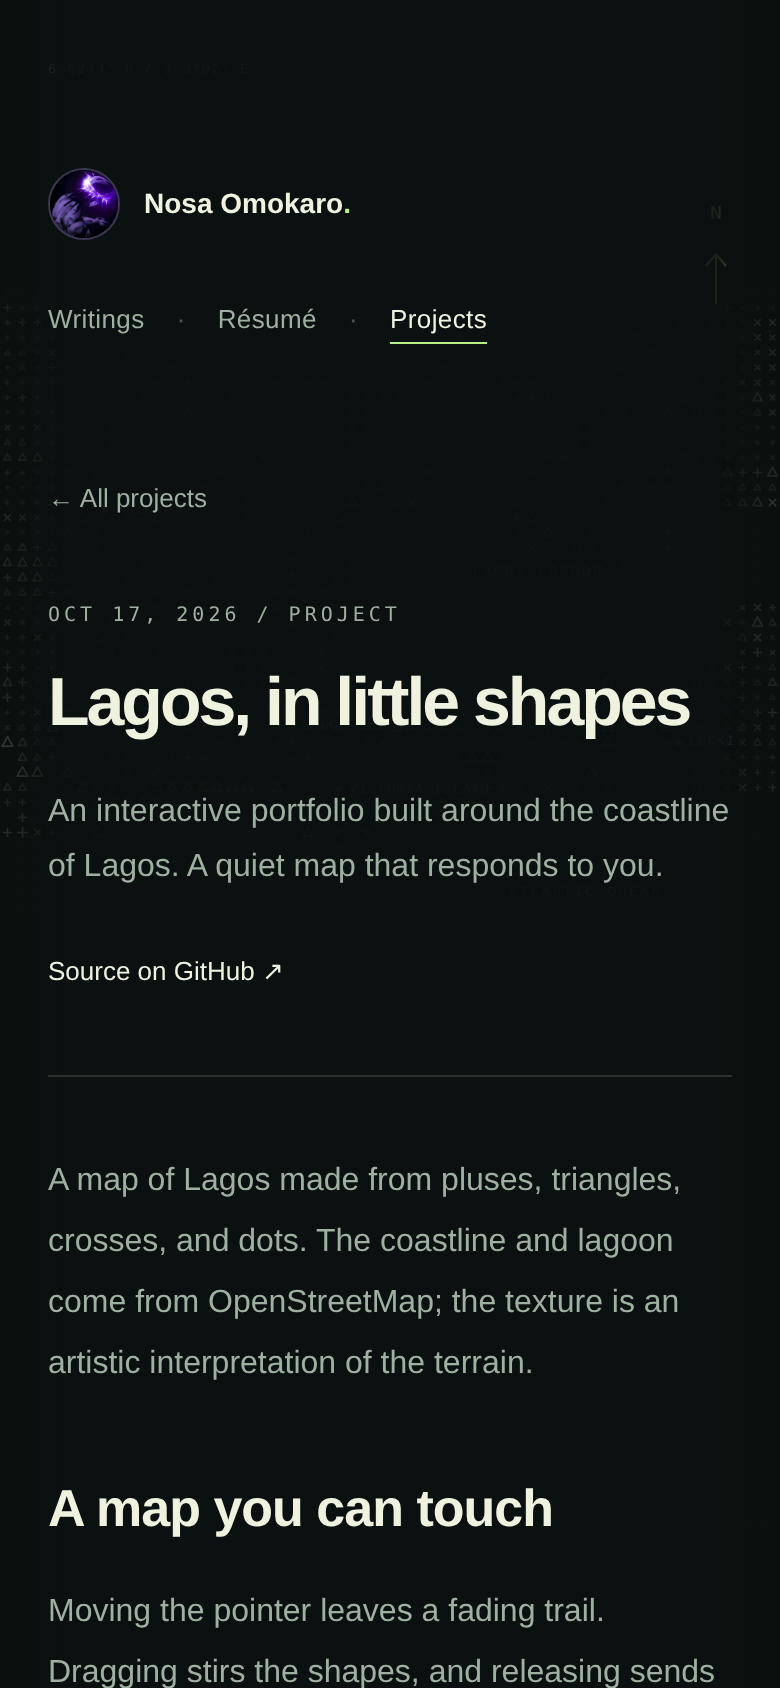
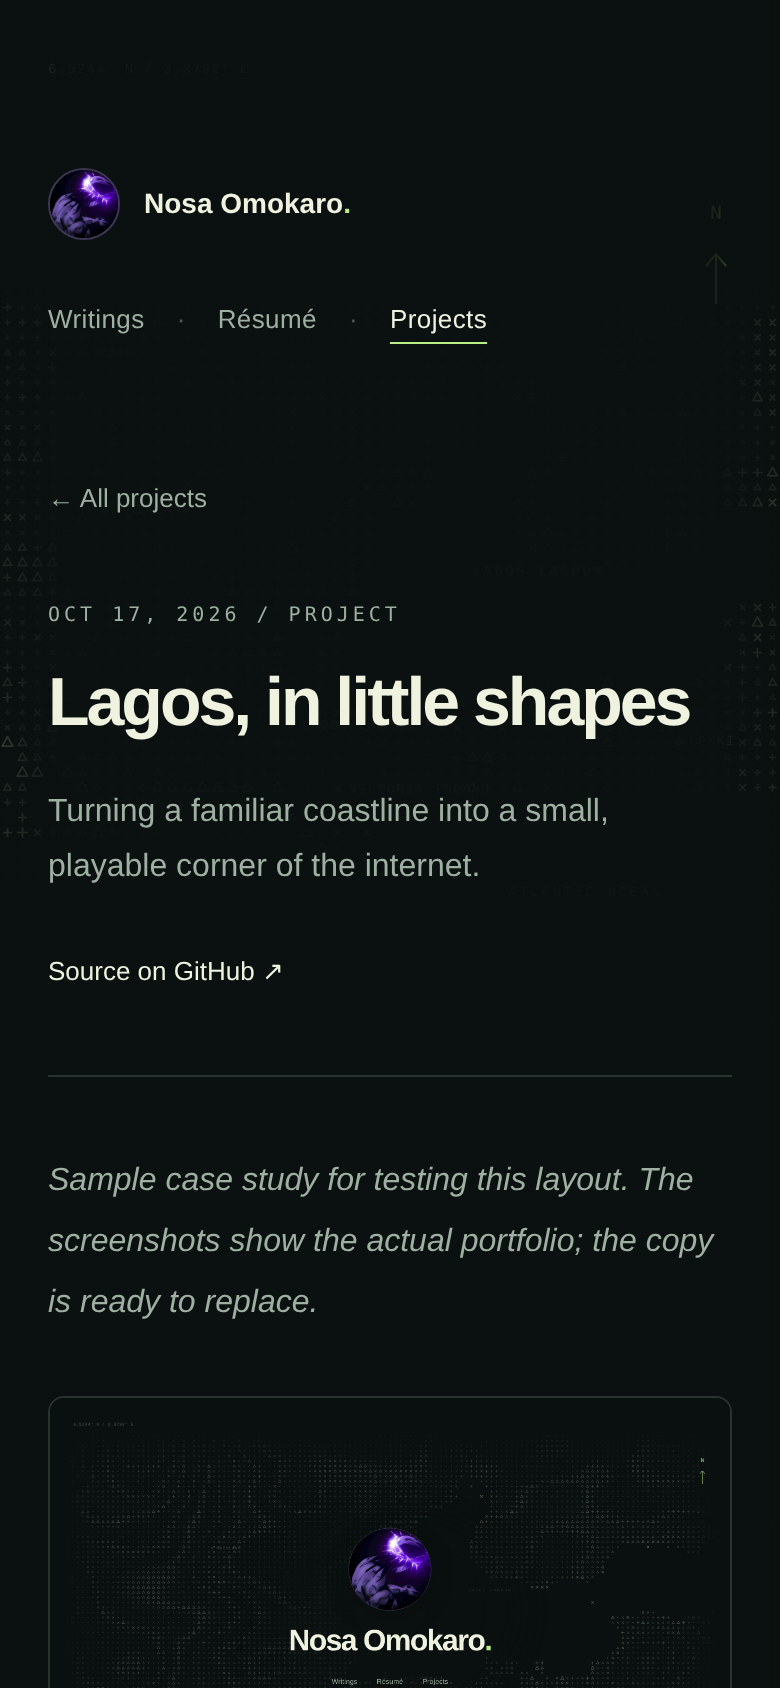
Add illustrated project and writing samples for layout testing

diff --git a/src/styles/content.css b/src/styles/content.css
@@ -45,6 +45,9 @@
 .prose blockquote { border-left: 2px solid var(--accent); padding: 4px 0 4px 24px; font-style: italic; }
 .prose pre { max-width: 100%; overflow-x: auto; padding: 20px; border: 1px solid var(--line); border-radius: 8px; font-size: 13px; line-height: 1.7; }
 .prose :not(pre) > code { font-size: .86em; padding: 3px 5px; background: color-mix(in srgb, var(--muted) 12%, transparent); border-radius: 3px; }
+.prose figure { margin: 32px 0; }
+.prose figure img { width: 100%; border: 1px solid var(--line); }
+.prose figcaption { margin-top: 12px; font-size: 12px; line-height: 1.7; color: var(--muted); text-align: center; }
 .prose img { display: block; max-width: 100%; height: auto; border-radius: 8px; }
 .prose table { display: block; overflow-x: auto; border-collapse: collapse; font-size: 14px; }
 .prose th, .prose td { border: 1px solid var(--line); padding: 10px 16px; text-align: left; }

diff --git a/src/content/projects/lagos-portfolio.md b/src/content/projects/lagos-portfolio.md
@@ -1,29 +1,68 @@
 ---
 title: "Lagos, in little shapes"
-description: "An interactive portfolio built around the coastline of Lagos. A quiet map that responds to you."
+description: "Turning a familiar coastline into a small, playable corner of the internet."
 date: 2026-10-17
-tags: [Astro, TypeScript, Canvas]
 featured: true
 repository: "https://github.com/nosabecom/portfolio"
 ---
-A map of Lagos made from pluses, triangles, crosses, and dots. The coastline and
-lagoon come from OpenStreetMap; the texture is an artistic interpretation of the terrain.
+*Sample case study for testing this layout. The screenshots show the actual portfolio; the copy is ready to replace.*
 
-## A map you can touch
+<figure>
+  <img src="/images/lagos/dark-desktop.png" alt="The dark portfolio homepage, with Nosa Omokaro’s circular purple avatar centered over a map of Lagos drawn in tiny geometric shapes." width="1280" height="800" loading="lazy" decoding="async" />
+  <figcaption>The starting point: a familiar place, drawn a little differently.</figcaption>
+</figure>
 
-Moving the pointer leaves a fading trail. Dragging stirs the shapes, and releasing
-sends a small pulse across the map. The motion settles back into the coastline.
+## A place, not just a backdrop
 
-## Keeping it quiet
+A portfolio starts with a simple question: what should someone feel before they read a word?
 
-The background makes room for the content. Geographic labels stay faint, the
-palette switches between dark green and paper, and motion respects the device’s
-reduced-motion preference.
+For this one, the answer is a little curiosity. The coastline of Lagos gives the page a sense of place. Pluses, triangles, crosses, and dots give it a texture that rewards a closer look. The map stays quiet until the pointer moves across it.
 
-## Built to stay light
+The shape of the land and lagoon comes from OpenStreetMap. The contour-like texture is an artistic interpretation, **not measured elevation**.
 
-The map is drawn on a canvas. A cached resting image and a spatial grid limit how
-much needs to be redrawn, and animation stops once the shapes settle.
+## Making the map feel alive
 
-Writings and project pages are generated from Markdown, keeping the content easy
-to update alongside the code.
+The interaction has three small gestures:
+
+1. **Move** to leave a fine, fading trail.
+2. **Hold and drag** to stir a wider patch of shapes.
+3. **Release** to send a pulse through the field.
+
+The shapes eventually return to their starting positions. That return matters: interaction can change the mood of the map without losing the place it represents.
+
+> The background should invite you to play, then give the page back to you.
+
+## Two ways to see the same place
+
+The dark palette lets the purple avatar and pale lettering lead. The light palette gives the same geometry a softer, paper-like setting. Both use the same coastline and interactions.
+
+<figure>
+  <img src="/images/lagos/light-desktop.png" alt="The same Lagos portfolio in light mode, with a warm paper background and green geometric map." width="1280" height="800" loading="lazy" decoding="async" />
+  <figcaption>A change of light, with the same underlying geography.</figcaption>
+</figure>
+
+### Small decisions that make room for the content
+
+- Geographic labels are faint enough to discover rather than read first.
+- The profile has a quiet area behind it so the name stays clear.
+- Reading pages soften the map further and put their controls after the article.
+- Reduced-motion preferences turn off animated effects and page transitions.
+
+## What sits underneath
+
+The map is drawn on a canvas. Its resting image is cached, and a spatial grid finds the shapes near the pointer. Only the affected areas need to be redrawn. Once the shapes settle, the animation loop stops.
+
+The content takes a different approach: ordinary Markdown files become static pages. Adding a project means adding a file with a title, a summary, and the story behind it.
+
+| Part | What it does |
+| --- | --- |
+| Geographic data | Defines the coastline and lagoon |
+| Canvas field | Draws the shapes and pointer effects |
+| Markdown collections | Supply writings and project stories |
+| Page transitions | Connect the homepage, lists, and reading views |
+
+## Still taking shape
+
+This is a foundation for a portfolio that can grow one piece at a time. The next test is simple: add real writing, add real projects, and see whether the background still knows when to be quiet.
+
+Read the companion sample, [A little room for curiosity](/writings/a-little-room-for-curiosity/), or [return to the map](/).

diff --git a/src/content/writings/a-little-room-for-curiosity.md b/src/content/writings/a-little-room-for-curiosity.md
@@ -1,0 +1,71 @@
+---
+title: "A little room for curiosity"
+description: "A sample note on quiet interfaces, small interactions, and knowing when to leave things alone."
+date: 2026-10-17
+draft: false
+---
+*Sample writing for testing the reading layout. Replace or remove this piece when your own writing is ready.*
+
+Some pages explain themselves all at once. Every corner has a label, every button wants attention, and every empty space is asked to do a job.
+
+There is another possibility: leave a little room for someone to notice something on their own.
+
+![A dark, geometric map of Lagos behind the centered profile on Nosa’s portfolio.](/images/lagos/dark-desktop.png)
+
+## A small invitation
+
+On this portfolio, the map is the invitation. At first it looks like a field of little marks. Look again and the lagoon appears. Move the pointer and the shapes respond.
+
+None of that needs to be understood before the page is useful. **Writings, résumé, projects.** The important destinations are still there. The extra detail is something to discover along the way.
+
+That is an interesting balance to aim for: an interface that is clear when you need it, and curious when you have a moment to spare.
+
+> A detail can be worth adding even when it does not need to announce itself.
+
+## What earns its place?
+
+A useful question for any decorative element is not just “does it look good?” It is “what happens to everything around it?”
+
+- Does the motion make the text harder to read?
+- Does a label explain something, or repeat what is already obvious?
+- Can the page still work when the effect is turned off?
+- Is there a natural point at which the interaction comes to rest?
+
+These questions tend to lead toward smaller gestures. A brief trail instead of a constant animation. A faint geographic label instead of a legend. A single icon instead of another panel.
+
+## The same idea, in a different light
+
+<figure>
+  <img src="/images/lagos/light-desktop.png" alt="The Lagos portfolio in a light paper palette, retaining the same profile and map composition." width="1280" height="800" loading="lazy" decoding="async" />
+  <figcaption>Changing the palette is a useful way to see which parts of a composition are doing the work.</figcaption>
+</figure>
+
+Light mode changes the atmosphere, but it should not change the hierarchy. The name remains the first thing to read. The navigation remains easy to find. The map remains a background.
+
+### A short checklist for the next pass
+
+1. Read the page on a small screen.
+2. Try it with motion reduced.
+3. Follow a link, then use the browser’s back button.
+4. Read a long paragraph without touching the map at all.
+
+If the page feels good in those quieter moments, the interactive parts have a better chance of feeling intentional.
+
+## Keeping the writing simple
+
+The publishing side follows the same principle. A small Markdown file is enough to give a piece a title, a summary, and a place on the site:
+
+```yaml
+title: "A little room for curiosity"
+description: "A note about making space."
+date: 2026-10-17
+draft: false
+```
+
+The rest is just writing. A `##` introduces a section; a link connects an idea to another page; an image gives the reader a pause. The layout takes care of the presentation.
+
+---
+
+There is more to try here, but it does not all need to happen at once. Sometimes the best next change is the one that gives what is already there a little more room.
+
+For the visual side of this experiment, see [Lagos, in little shapes](/projects/lagos-portfolio/).

diff --git a/README.md b/README.md
@@ -56,11 +56,17 @@ tags: [Design, Development]
 Write the body below the frontmatter using normal Markdown. Headings, lists,
 links, images, quotes, tables, and code blocks are styled automatically. Put
 images in `public/images/` and reference them as `![Description](/images/name.webp)`.
-The page already supplies the title, so start body headings at `##`.
+For a caption, use an HTML `<figure>` with `<img>` and `<figcaption>` inside
+the Markdown file; the sample case study demonstrates this. Include descriptive
+alt text and image dimensions. The page already supplies the title, so start body
+headings at `##`.
 
 Set `draft: false` (or omit it) to publish. Drafts have **no public route** and do
 not appear in lists, including in development. `first-note.md` is an unpublished
-starter to replace with your own writing. The portfolio itself is the first project.
+starter to replace with your own writing. A published sample, `a-little-room-for-curiosity.md`,
+is included for testing the reading layout. The portfolio case study is also sample
+copy, with local screenshots in `public/images/lagos/`. Replace or remove these
+samples when your real content is ready.
 There is a designed empty state when a collection has no published entries.
 
 Projects accept three additional optional frontmatter fields:
